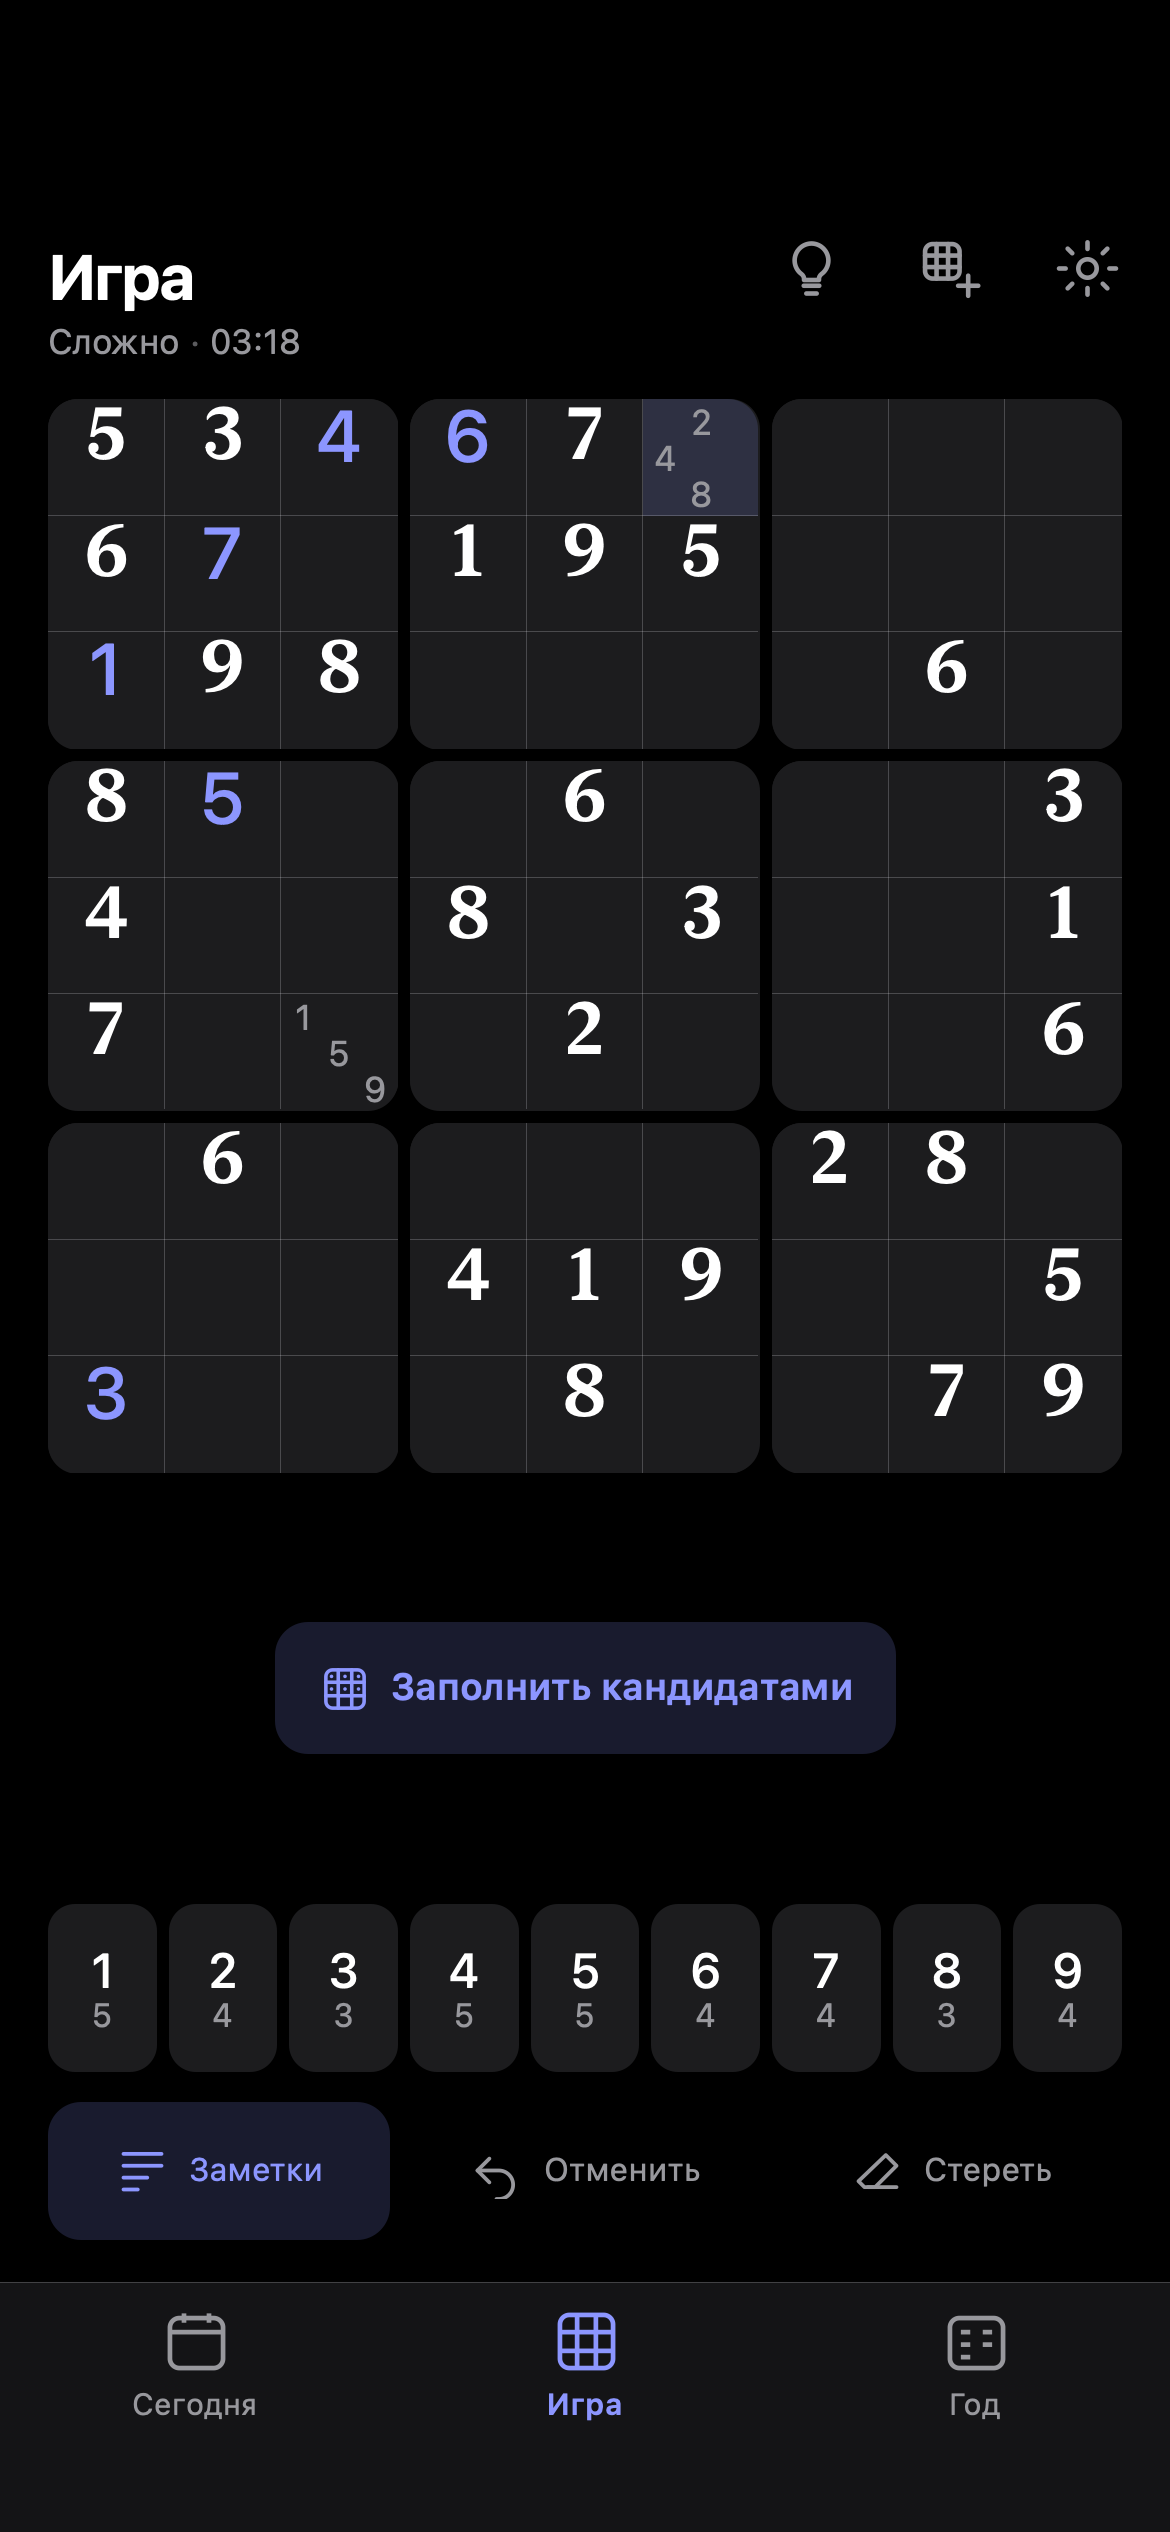
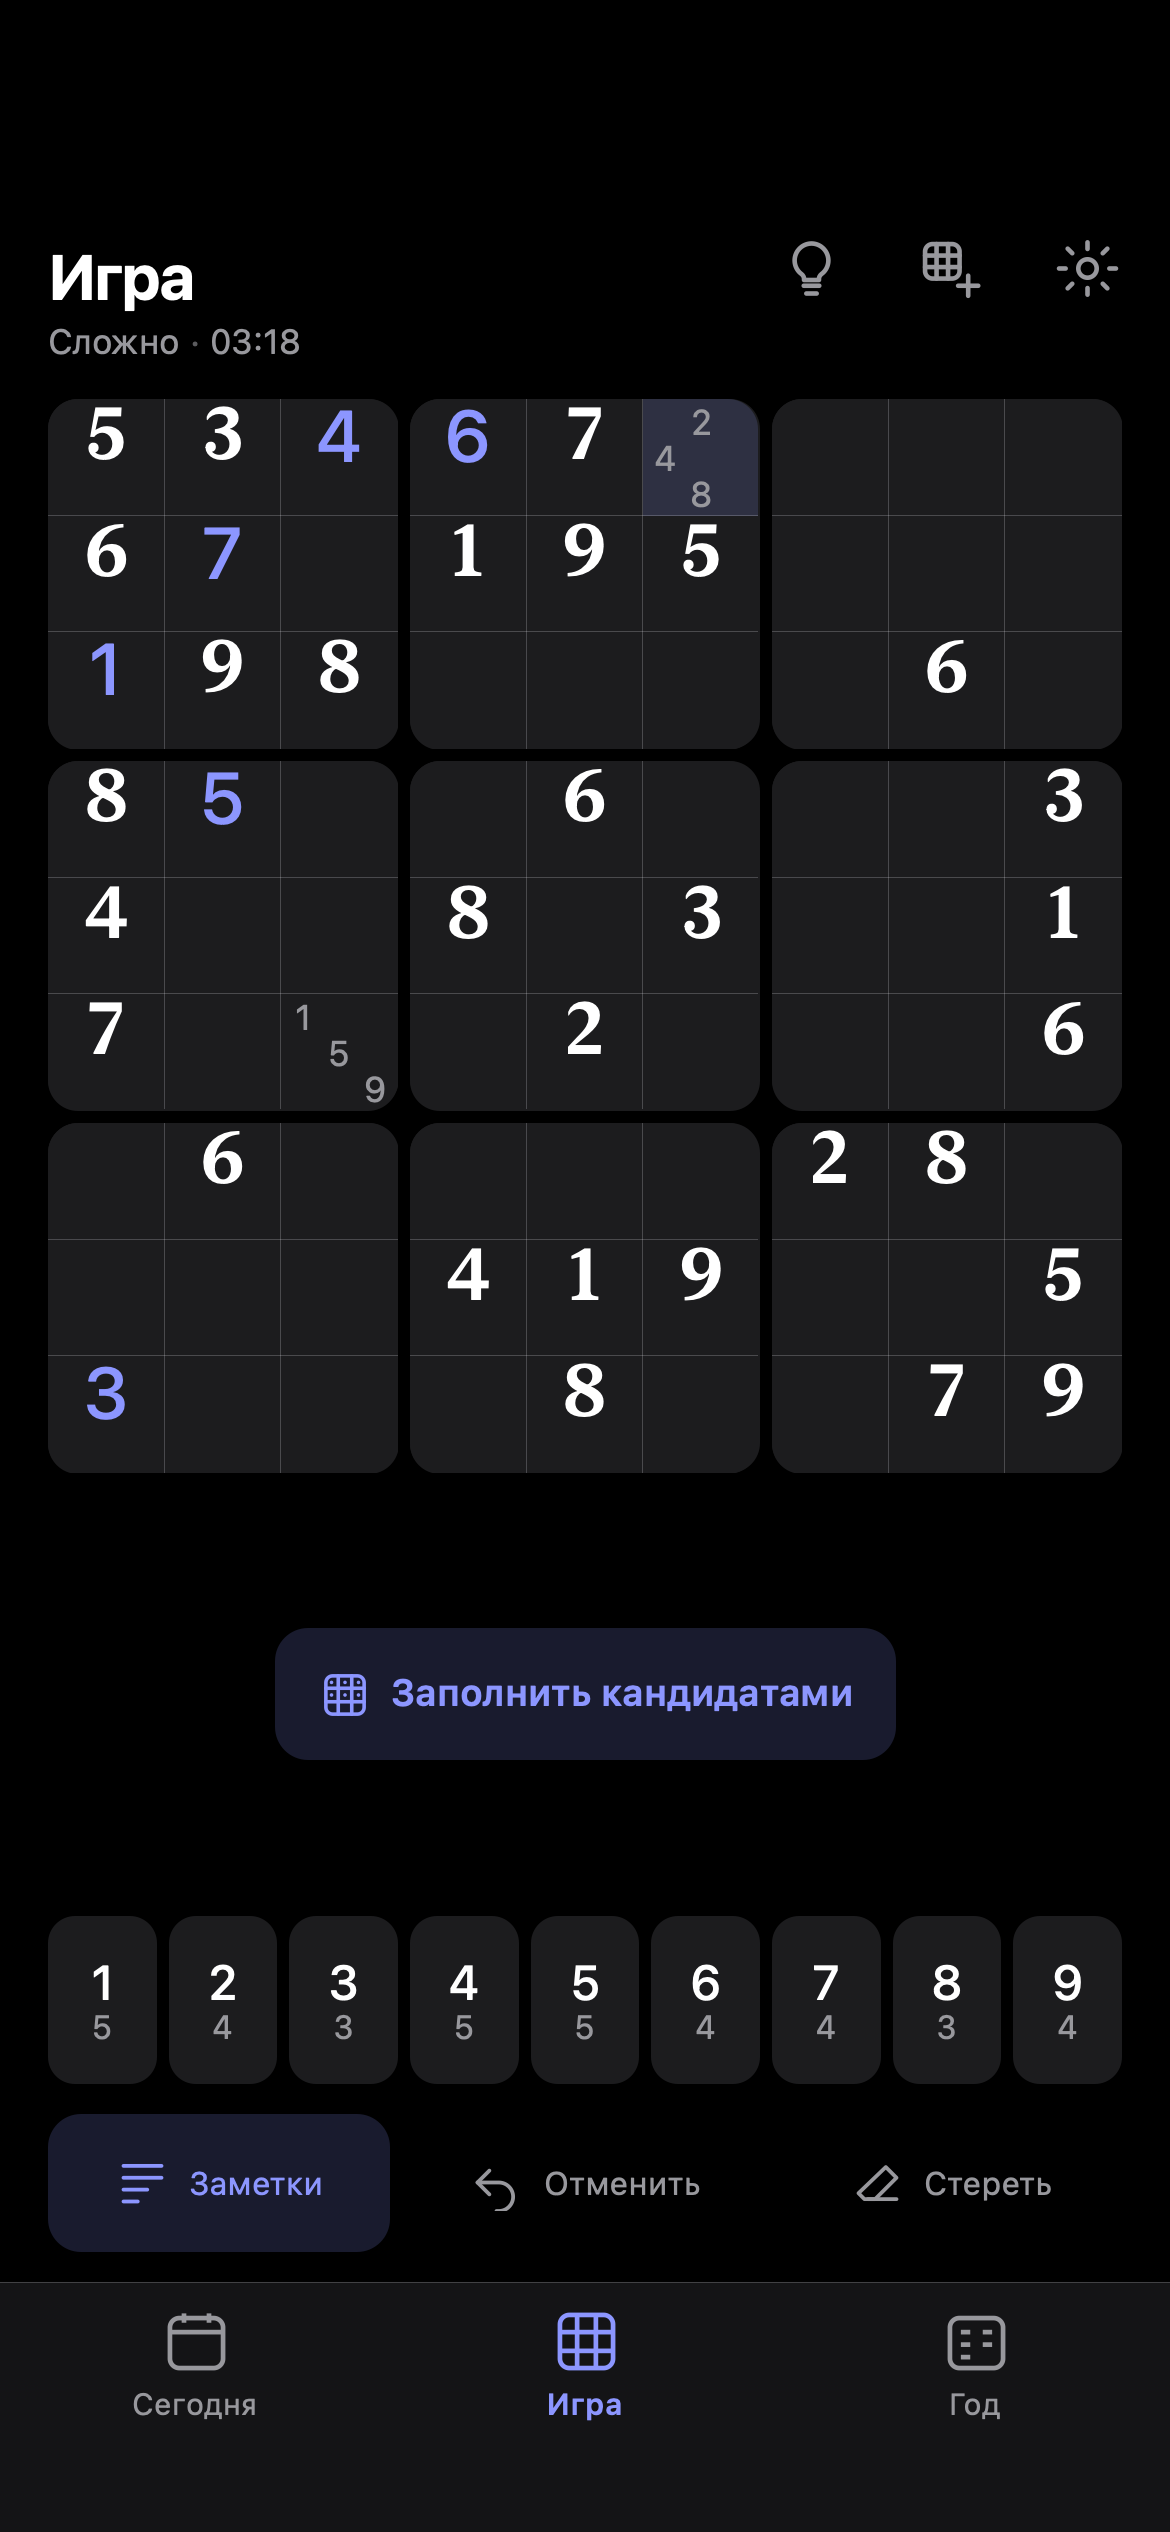
PD-144: макет Play-хаба — резерв --chrome, AX3 ≤360 px (вариант C), перерендер 40 кадров

diff --git a/design/pd144-play-c.html b/design/pd144-play-c.html
@@ -193,6 +193,7 @@ button{ font:inherit; color:inherit; background:none; border:0; padding:0; curso
       margin from the line box instead of guessing it — see .titlebtn below.
    ================================================================== */
 .toolbar{
+  flex:none;
   display:flex; align-items:flex-end; justify-content:space-between; gap:12px;
   padding: calc(var(--sa-top) + 8px) max(16px, var(--sa-r)) 0 max(16px, var(--sa-l));
 }
@@ -218,7 +219,7 @@ button{ font:inherit; color:inherit; background:none; border:0; padding:0; curso
 .titlebtn svg{ width:15px; height:15px; color:var(--label-2); flex:none; }
 
 .subline{
-  margin:2px 0 0; padding:0 max(16px, var(--sa-r)) 0 max(16px, var(--sa-l));
+  flex:none; margin:2px 0 0; padding:0 max(16px, var(--sa-r)) 0 max(16px, var(--sa-l));
   color:var(--label-2); font-size:.88rem; overflow-wrap:break-word;
 }
 .subline .dot{ opacity:.6; }
@@ -349,9 +350,24 @@ button.row:active{ background:var(--ink-tint); }
 .board-wrap{
   padding:12px max(16px, var(--sa-r)) 0 max(16px, var(--sa-l));
   container-type:inline-size;
-  /* chrome = toolbar + subline + minimum gap + pad + actions + tab bar + insets */
-  --chrome: calc(var(--sa-top) + var(--sa-bot) + 44px + 24px + 56px + 126px + 51px + 24px);
+  --extra: 0px;
+  /* Everything below the board, in the units it is really built from. The bars grow with
+     Dynamic Type (`rem`), the keys and the tab bar do not — a single fixed 126 px for the
+     controls was right at 17 px and 90 px short at AX3, which is why the bottom row ended up
+     under the tab bar: the whole column overflowed and every shrinkable item lost height. */
+  --chrome: calc(
+      var(--sa-top) + var(--sa-bot)
+      + 2rem + 8px      /* toolbar: title 1.62rem x 1.2, 8 px above it */
+      + 1.15rem + 2px   /* subline */
+      + 1.15rem + 16px  /* gap: one status line + its padding */
+      + 56px            /* the 1-9 keys — fixed, the glyph is capped instead */
+      + 66px            /* actions: 46 pt target + 10 above + 10 below */
+      + 51px            /* tab bar */
+      + 12px            /* slack */
+      + var(--extra));
 }
+/* The rejected four-button variant also carries the review ruler and a taller row. */
+:root[data-fill="c"] .board-wrap{ --extra: 70px; }
 .board{
   position:relative; display:grid; grid-template-columns:repeat(3,1fr); gap:var(--box-gap);
   width:min(100%, calc(100dvh - var(--chrome)));
@@ -390,9 +406,12 @@ button.row:active{ background:var(--ink-tint); }
   color:var(--notes); display:grid; place-items:center;
 }
 
-/* >= 8 px of air under the board before the status line, at every text size. */
+/* >= 8 px of air under the board and >= 8 px before the keys, at every text size. `min-height`
+   reserves a whole status line plus that padding, so the line can never be squeezed against the
+   board when the column is tight (a shrunk content box let the text spill over its padding). */
 .gap{
-  flex:1 1 auto; min-height:32px; display:flex; align-items:center; justify-content:center;
+  flex:1 1 auto; min-height:calc(1.15rem + 16px);
+  display:flex; align-items:center; justify-content:center;
   padding:8px max(16px, var(--sa-r)) 8px max(16px, var(--sa-l));
 }
 .status{ margin:0; color:var(--label-2); font-size:.88rem; font-variant-numeric:tabular-nums; text-align:center; }
@@ -409,7 +428,13 @@ button.row:active{ background:var(--ink-tint); }
 .fill-line svg{ width:18px; height:18px; flex:none; }
 .fill-line:active{ opacity:.8; }
 
-.pad-wrap{ padding:0 max(16px, var(--sa-r)) 0 max(16px, var(--sa-l)); container-type:inline-size; }
+/* `flex:none` is the load-bearing part: the control block is never the thing that gives way.
+   Without it `.pad-wrap` (default `flex:0 1 auto`) shrank below its content and the bottom row
+   was cut by the tab bar, rounded corners and all. Space now comes out of the board. */
+.pad-wrap{
+  flex:none; padding:0 max(16px, var(--sa-r)) 0 max(16px, var(--sa-l));
+  container-type:inline-size;
+}
 .pad{ display:grid; grid-template-columns:repeat(9,1fr); gap:4px; }
 .key{
   min-width:0; min-height:56px; border-radius:9px; background:var(--elev); color:var(--label);
@@ -422,21 +447,38 @@ button.row:active{ background:var(--ink-tint); }
    while on 390 pt the normal 1.24rem still wins — ordinary text sizes are untouched. */
 .key .kd{ font-size:min(1.24rem, 7.5cqi); font-weight:500; line-height:1.05; }
 .key .kr{ font-size:11px; line-height:1; color:var(--label-2); font-variant-numeric:tabular-nums; }
-.actions{ display:grid; grid-template-columns:repeat(3,1fr); gap:8px; padding:10px 0 14px; }
+/* 10 px under the row, so the plate (and its rounded corners) always clears the tab bar. */
+.actions{ display:grid; grid-template-columns:repeat(3,1fr); gap:8px; padding:10px 0; }
 .actions.four{ grid-template-columns:repeat(4,1fr); }
 .act{
   min-width:0; min-height:46px; border-radius:11px;
-  display:flex; flex-direction:column; align-items:center; justify-content:center; gap:2px; padding:4px 4px;
-  color:var(--label-2); font-size:.82rem; text-align:center; overflow-wrap:break-word;
+  display:flex; flex-direction:column; align-items:center; justify-content:center; gap:2px; padding:5px 4px;
+  color:var(--label-2); font-size:.82rem; line-height:1.2; text-align:center; overflow-wrap:break-word;
 }
 .act svg{ width:19px; height:19px; flex:none; }
 .act[aria-pressed="true"]{ background:var(--ink-tint); color:var(--ink); }
 @media (min-width:360px){ .act{ flex-direction:row; gap:6px; } }
 :root[data-fill="c"] .act{ flex-direction:column; gap:2px; }
+/* Four buttons at 320 pt: the uk label is wider than its column, so it is shown on two lines
+   and then clamped. The clamp IS the evidence against variant C — it is what the review ruler
+   under the row measures — but it is bounded, so the row can never grow into the tab bar. */
+:root[data-fill="c"] .act span{
+  display:-webkit-box; -webkit-line-clamp:2; -webkit-box-orient:vertical; overflow:hidden;
+}
+/* The last resort, only where no label can fit: AX3 on a narrow screen shows ICONS ONLY.
+   The label is visually hidden, never removed, so it is still the button's accessible name
+   (in production give these buttons an explicit `aria-label` as well). */
+@media (max-width: 360px){
+  :root[data-type="ax3"] .act span{
+    position:absolute; width:1px; height:1px; margin:-1px; padding:0;
+    overflow:hidden; clip-path:inset(50%); white-space:nowrap;
+  }
+  :root[data-type="ax3"] .act{ gap:0; }
+}
 
 /* Review-only ruler, shown with the rejected fourth-button variant. */
 .ruler{
-  margin:0 max(16px, var(--sa-r)) 10px max(16px, var(--sa-l));
+  flex:none; margin:0 max(16px, var(--sa-r)) 10px max(16px, var(--sa-l));
   border:1px dashed var(--wax); border-radius:8px; padding:6px 8px;
   color:var(--wax); font-size:11px; line-height:1.3;
 }
